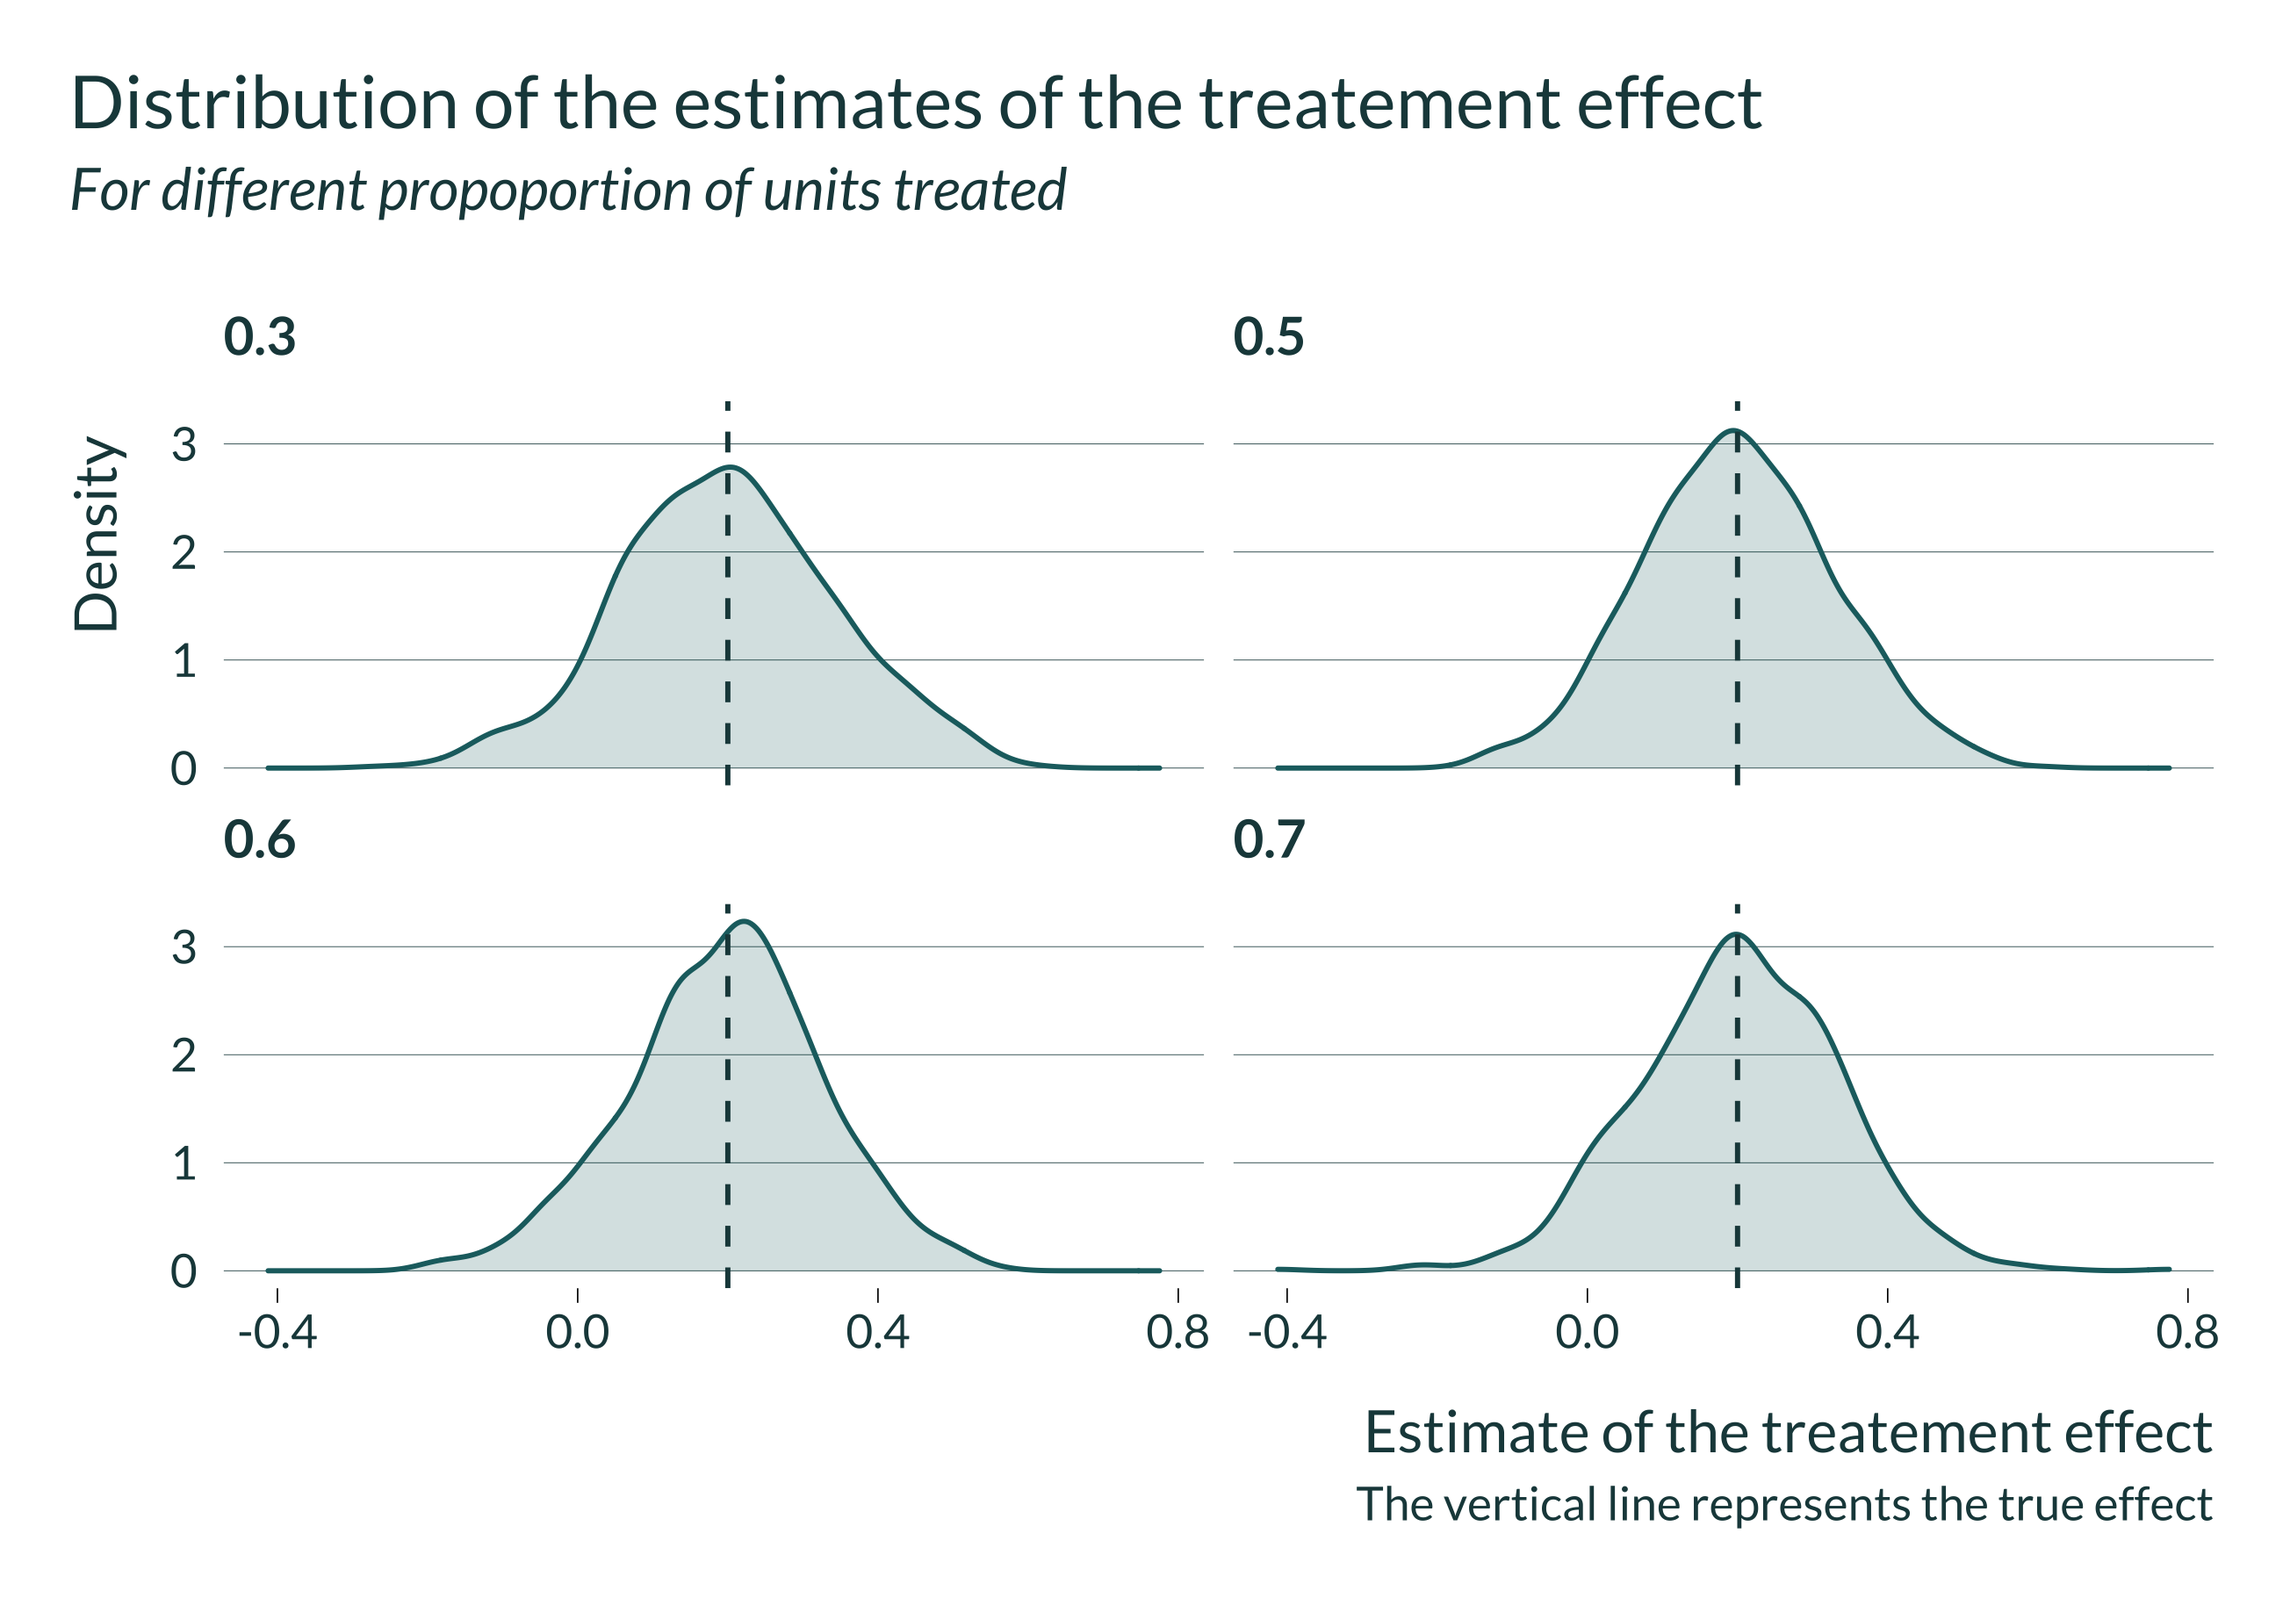
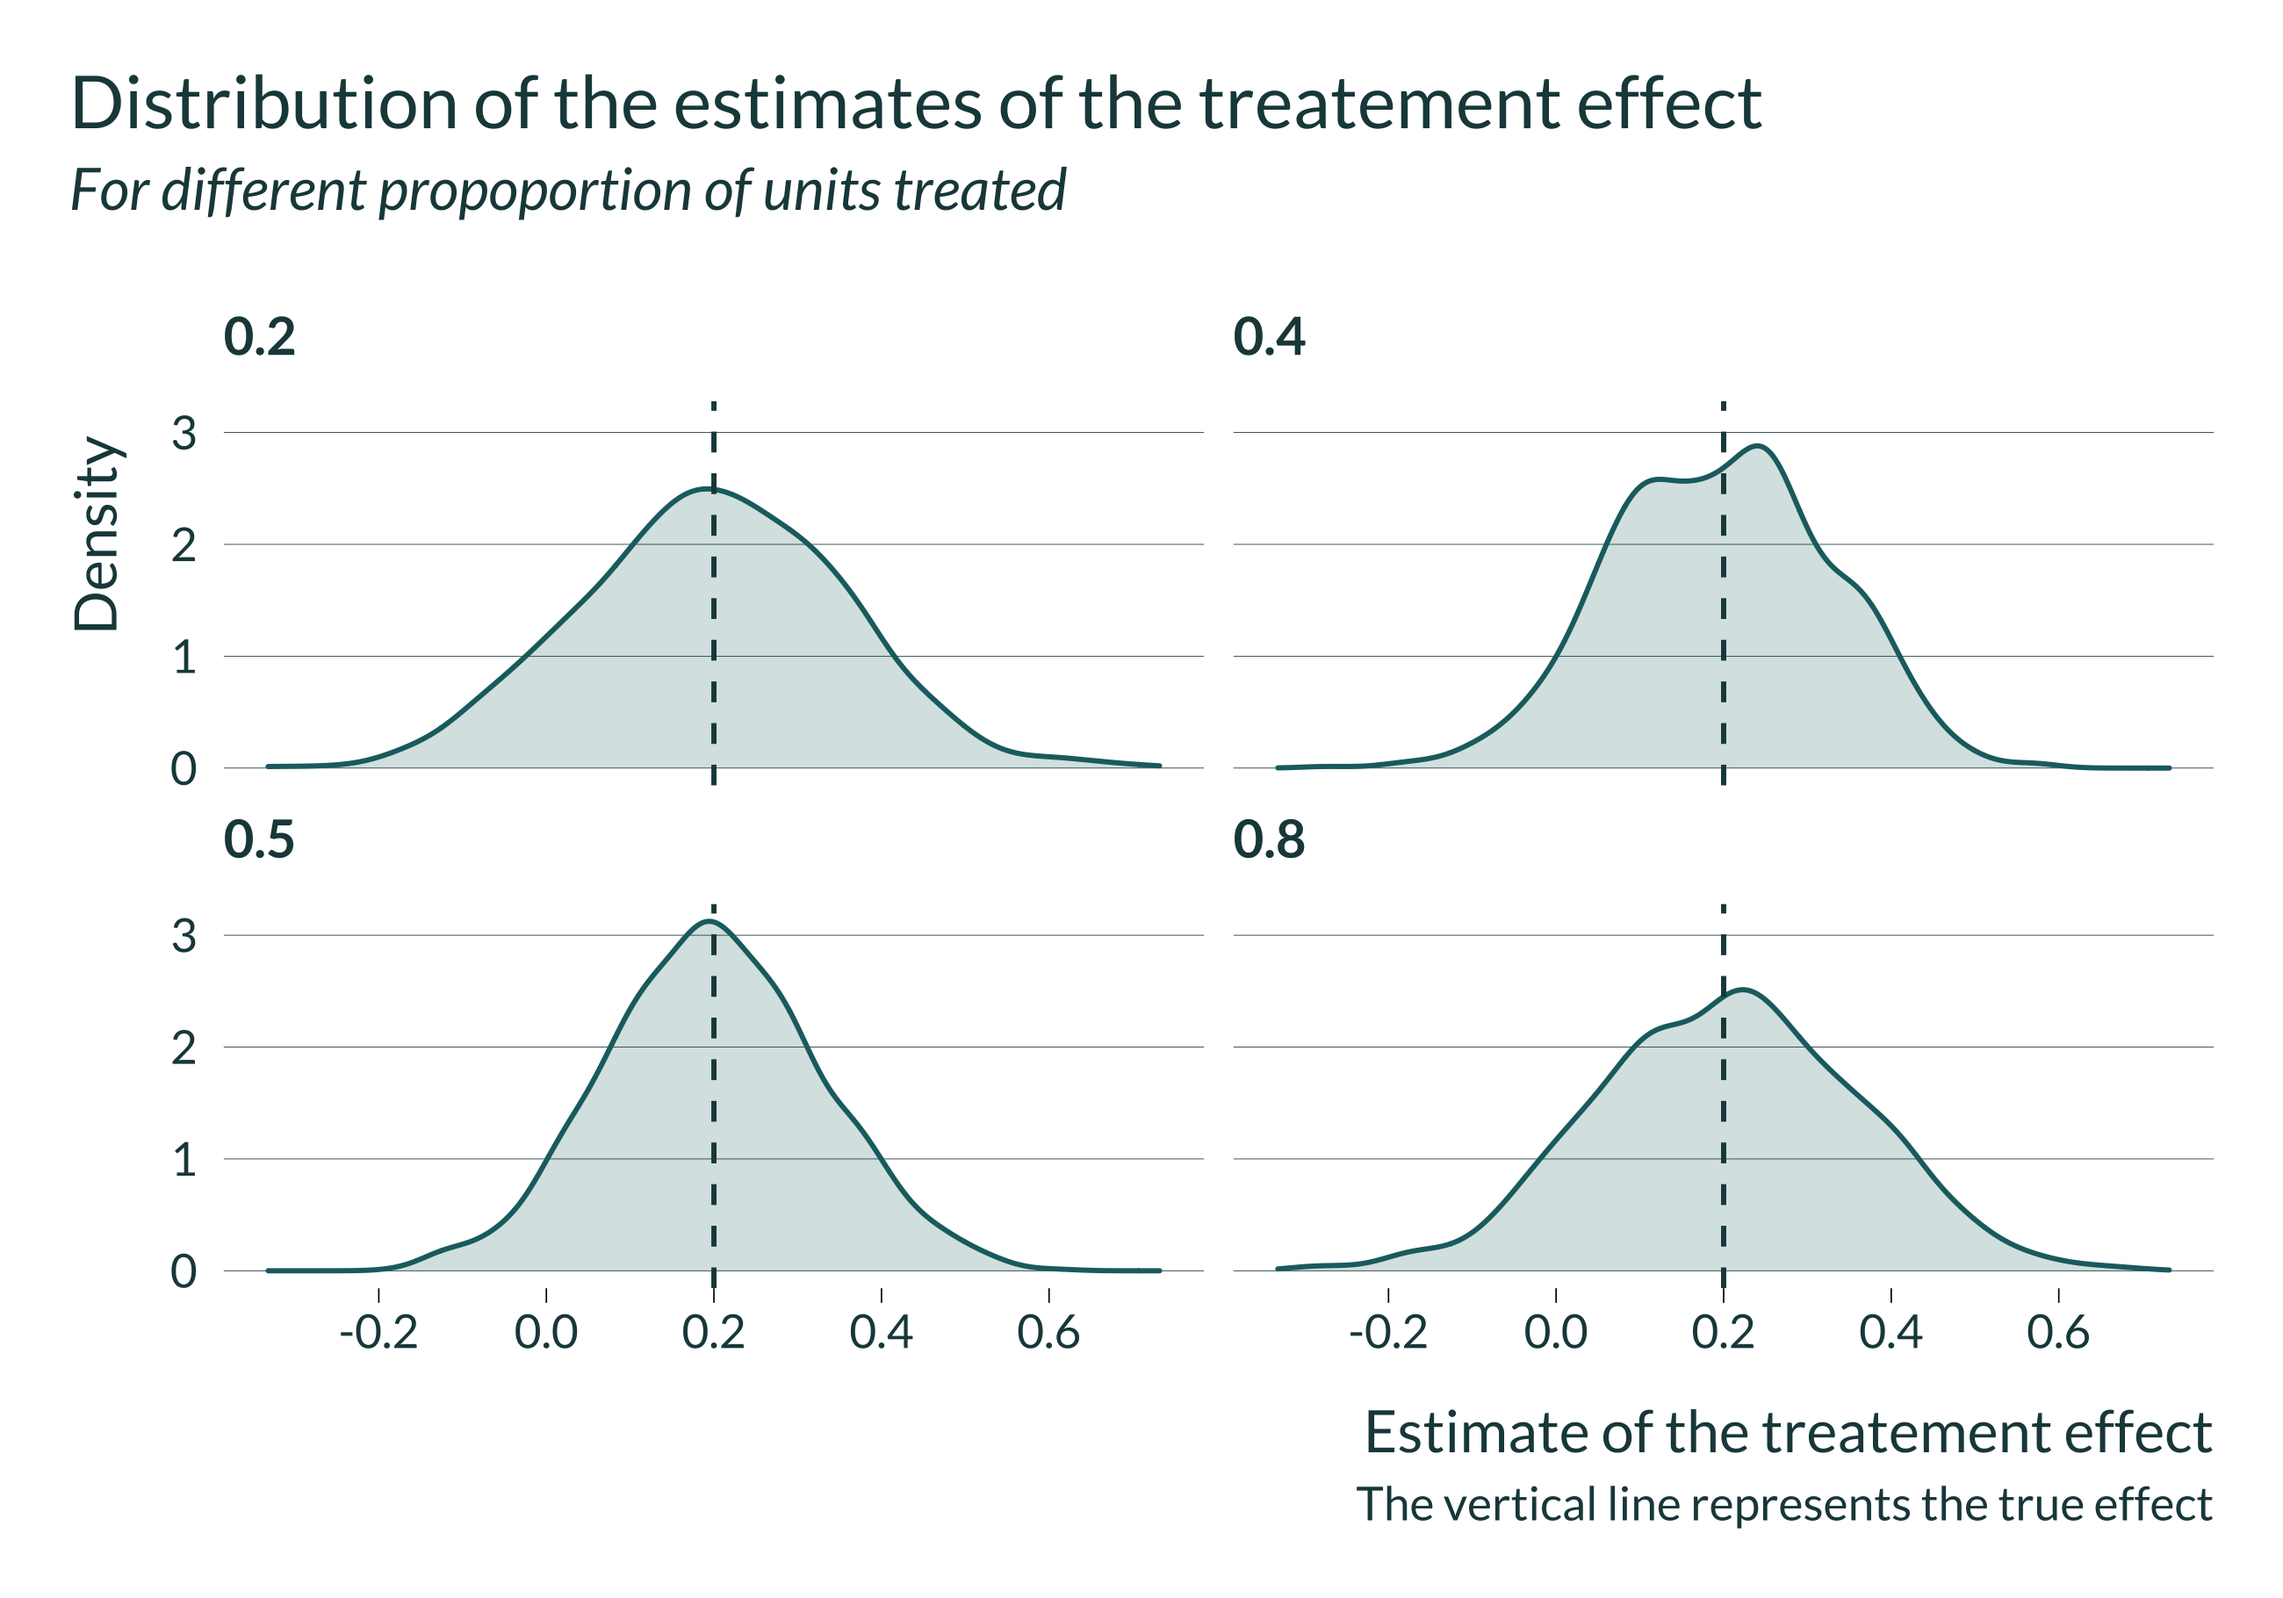
First version for clustering

diff --git a/docs/panoptic-issues.html b/docs/panoptic-issues.html
@@ -2226,7 +2226,12 @@ text-align: justify}
 
 </div>
 <h2 id="summary-and-intuition">Summary and intuition</h2>
-<p>Power and thus type M error can also be affected by aspects that are not proper to one particular identification strategy.</p>
+<p>Power and thus type M error can also be affected by aspects that are not proper to one particular identification strategy. In this document we investigate the impact of different factors:</p>
+<ul>
+<li>The proportion of unit treated (at number of observations constant). We all know that power is maximized when the proportion of units treated is 0.5. The further away we are from this value, the smaller the power and the larger the exaggeration ratio. (<em>I am not certain, I need to check the formula but</em>) The intuition is that a limited number of treated, or control, limits the variation used to estimate the effect.</li>
+<li>Limiting the variation in y.</li>
+<li>The number of clusters. Considering a small number of clusters is to some extent comparable to considering a small number of units and thus partly acts as limiting the number of observations, thus decreasing power and increasing the exaggeration ratio.</li>
+</ul>
 <h2 id="an-illustrative-example">An illustrative example</h2>
 <p>For readability and to illustrate this loss in power, we consider an example setting. For this illustration we could consider a large variety of distribution parameter for the variables. We narrow this down to an example setting, considering an analysis of the impact of voter turnout on election results, instrumenting voter turnout with rainfall on the day of the election. Our point should stand in more general settings and the choice of values is mostly for illustration.</p>
 <h3 id="modelisation-choices">Modelisation choices</h3>
@@ -2316,73 +2321,73 @@ text-align: justify}
 <tbody>
 <tr class="odd">
 <td style="text-align: right;">1</td>
-<td style="text-align: left;">FALSE</td>
-<td style="text-align: right;">-0.2707895</td>
-<td style="text-align: right;">2.3118584</td>
-<td style="text-align: right;">3.0410689</td>
+<td style="text-align: left;">TRUE</td>
+<td style="text-align: right;">-0.3719556</td>
+<td style="text-align: right;">-0.5275119</td>
+<td style="text-align: right;">0.3005325</td>
 </tr>
 <tr class="even">
 <td style="text-align: right;">2</td>
-<td style="text-align: left;">FALSE</td>
-<td style="text-align: right;">0.0081702</td>
-<td style="text-align: right;">-1.2530149</td>
-<td style="text-align: right;">-0.2448448</td>
+<td style="text-align: left;">TRUE</td>
+<td style="text-align: right;">-1.9599805</td>
+<td style="text-align: right;">-0.4469374</td>
+<td style="text-align: right;">-1.2069179</td>
 </tr>
 <tr class="odd">
 <td style="text-align: right;">3</td>
 <td style="text-align: left;">TRUE</td>
-<td style="text-align: right;">-0.4879330</td>
-<td style="text-align: right;">0.6003654</td>
-<td style="text-align: right;">1.3124324</td>
+<td style="text-align: right;">0.7495496</td>
+<td style="text-align: right;">-0.6290226</td>
+<td style="text-align: right;">1.3205270</td>
 </tr>
 <tr class="even">
 <td style="text-align: right;">4</td>
 <td style="text-align: left;">TRUE</td>
-<td style="text-align: right;">0.3497123</td>
-<td style="text-align: right;">0.9884843</td>
-<td style="text-align: right;">2.5381967</td>
+<td style="text-align: right;">0.6338819</td>
+<td style="text-align: right;">-0.3630870</td>
+<td style="text-align: right;">1.4707949</td>
 </tr>
 <tr class="odd">
 <td style="text-align: right;">5</td>
-<td style="text-align: left;">TRUE</td>
-<td style="text-align: right;">-0.0401509</td>
-<td style="text-align: right;">-1.3782838</td>
-<td style="text-align: right;">-0.2184347</td>
+<td style="text-align: left;">FALSE</td>
+<td style="text-align: right;">0.4089720</td>
+<td style="text-align: right;">-0.6042950</td>
+<td style="text-align: right;">0.8046770</td>
 </tr>
 <tr class="even">
 <td style="text-align: right;">6</td>
-<td style="text-align: left;">FALSE</td>
-<td style="text-align: right;">-2.1915701</td>
-<td style="text-align: right;">-1.2327894</td>
-<td style="text-align: right;">-2.4243595</td>
+<td style="text-align: left;">TRUE</td>
+<td style="text-align: right;">-1.0152776</td>
+<td style="text-align: right;">-0.2131326</td>
+<td style="text-align: right;">-0.0284102</td>
 </tr>
 <tr class="odd">
 <td style="text-align: right;">7</td>
 <td style="text-align: left;">FALSE</td>
-<td style="text-align: right;">-0.3539582</td>
-<td style="text-align: right;">0.7337044</td>
-<td style="text-align: right;">1.3797462</td>
+<td style="text-align: right;">-1.2914841</td>
+<td style="text-align: right;">-0.2805429</td>
+<td style="text-align: right;">-0.5720270</td>
 </tr>
 <tr class="even">
 <td style="text-align: right;">8</td>
-<td style="text-align: left;">TRUE</td>
-<td style="text-align: right;">0.5154086</td>
-<td style="text-align: right;">-0.2644893</td>
-<td style="text-align: right;">1.4509193</td>
+<td style="text-align: left;">FALSE</td>
+<td style="text-align: right;">-0.5548816</td>
+<td style="text-align: right;">-1.5773425</td>
+<td style="text-align: right;">-1.1322241</td>
 </tr>
 <tr class="odd">
 <td style="text-align: right;">9</td>
-<td style="text-align: left;">TRUE</td>
-<td style="text-align: right;">1.3508588</td>
-<td style="text-align: right;">0.5869988</td>
-<td style="text-align: right;">3.1378576</td>
+<td style="text-align: left;">FALSE</td>
+<td style="text-align: right;">-1.6323405</td>
+<td style="text-align: right;">-0.4056719</td>
+<td style="text-align: right;">-1.0380124</td>
 </tr>
 <tr class="even">
 <td style="text-align: right;">10</td>
 <td style="text-align: left;">FALSE</td>
-<td style="text-align: right;">-2.2489139</td>
-<td style="text-align: right;">-0.6755517</td>
-<td style="text-align: right;">-1.9244656</td>
+<td style="text-align: right;">-0.8146654</td>
+<td style="text-align: right;">-0.9870398</td>
+<td style="text-align: right;">-0.8017052</td>
 </tr>
 </tbody>
 </table>
